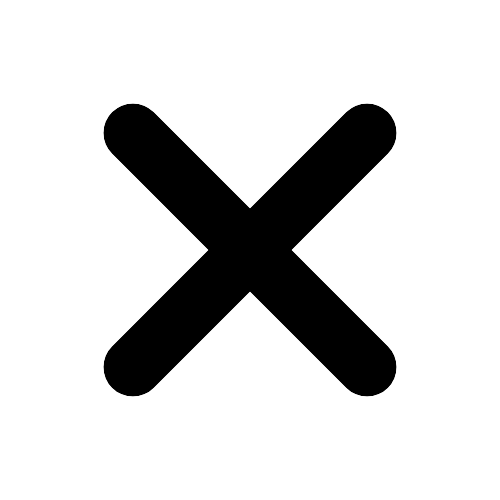
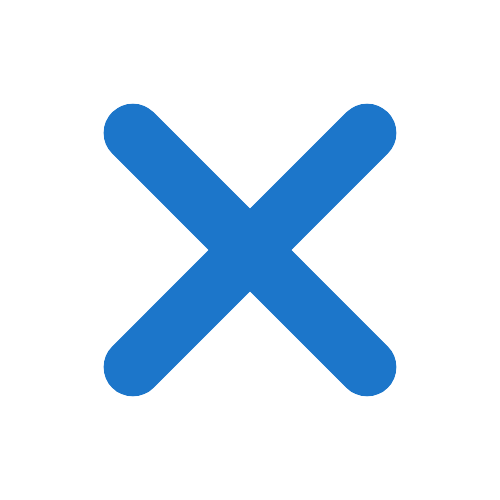
web responsive

Changed region(s): [[0.21, 0.21, 0.81, 0.81]]

diff --git a/styles.css b/styles.css
@@ -89,17 +89,6 @@ header .nav li a:hover {
 }
 /* Nav
 
-.mobileMenu {
-    display: none;
-} */
-
-/* .web-icon {
-    height: 20px;
-    font-size: 8px;
-    color: #F4F0E5;
-    margin-left: 15px;
-} */
-
 /* Presentation */
 .one {
     background-position: bottom;
@@ -477,7 +466,7 @@ footer a {
 
     .one .image {
         width: 100%;
-        margin: 0px;
+        margin-bottom: 2em;
     }
 
     .one .title {
@@ -502,13 +491,13 @@ footer a {
         width: 100%;
         height: calc(100% - 60px);
         position: fixed;
-        top: 50px;
+        top: 70px;
         left: 0;
         display: flex;
         justify-content: center;
         align-items: center;
         flex-direction: column;
-        background: #042849;
+        background: #0D3B66;
     }
 
     header .nav li a {
@@ -517,21 +506,21 @@ footer a {
 
     header a i {
         margin: 10px 10px 10px 0px;
-        font-size: 2em;
-        color: #0D3B66;
+        font-size: 1.4em;
+        color: #1c76ca;
     }
 
     header .adc {
-        font-size: 1.8em;
-        color: #042849;
+        font-size: 1.4em;
+        color: #1c76ca;
     }
 
     .menuToggle {
         position: relative;
-        width: 40px;
-        height: 40px;
+        width: 30px;
+        height: 30px;
         background: url(images/menu.png);
-        background-size: 50px;
+        background-size: 40px;
         background-repeat: no-repeat;
         background-position: center;
         cursor: pointer;
@@ -539,13 +528,58 @@ footer a {
 
     .menuToggle.active {    
         background: url(images/close.png);
+        background-size: 40px;
+        background-repeat: no-repeat;
+        background-position: center;
+        cursor: pointer;
     }
 
     .menuToggle i {
         color: #0D3B66;
     }
+
+    .one {
+        text-align: center;
+        display: flex;
+        justify-content: center;
+        /* align-items: center; */
+        flex-direction: column;
+        margin-bottom: 1em;
+
+    }    
+
+    .one .image {
+        max-width: 240px;
+    }
+
+    .one .title {
+        max-width: 320px;
+    }
+
+    .one .title h1{
+        font-size: 1.7em;
+    }
+    
+    .one .title h2 {
+        font-size: 1em;
+    }
+    
+    .one .title p {
+        font-size: 0.9em;
+        margin-bottom: 0px;
+    }
+
 }
 
-/* @media only screen and (max-width: 670px) {
-    .one y contact
-} */
+@media only screen and (max-width: 570px) {
+    footer i {
+        padding: 5px;
+        font-size: 25px;
+    }
+
+    footer .personal {
+        display: block;
+        flex-direction: column;
+        text-align: center;
+    }
+}

diff --git a/index.html b/index.html
@@ -23,10 +23,10 @@
                 <a href="#" class="adc"> <i class="fa-solid fa-briefcase"></i> ADC </a>
                 <div class="menuToggle" onclick="toggleMenu()"></div>
                 <ul class="nav">
-                    <li><a href="#home"> Home </a></li>
-                    <li><a href="#aboutme"> About Me </a></li>
-                    <li><a href="#projects"> Projects </a></li>
-                    <li><a href="#footer"> Contact </a></li>
+                    <li><a href="#home" onclick="toggleMenu()"> Home </a></li>
+                    <li><a href="#aboutme" onclick="toggleMenu()"> About Me </a></li>
+                    <li><a href="#projects" onclick="toggleMenu()"> Projects </a></li>
+                    <li><a href="#footer" onclick="toggleMenu()"> Contact </a></li>
                 </ul>
             </header>
         </section>         
@@ -185,7 +185,7 @@
         </footer>        
     </div>
     <!-- JavaScript  -->
-    <!-- <script src="scripts.js"></script> -->
+    <script src="scripts.js"></script>
 </body>
 
 </html>
